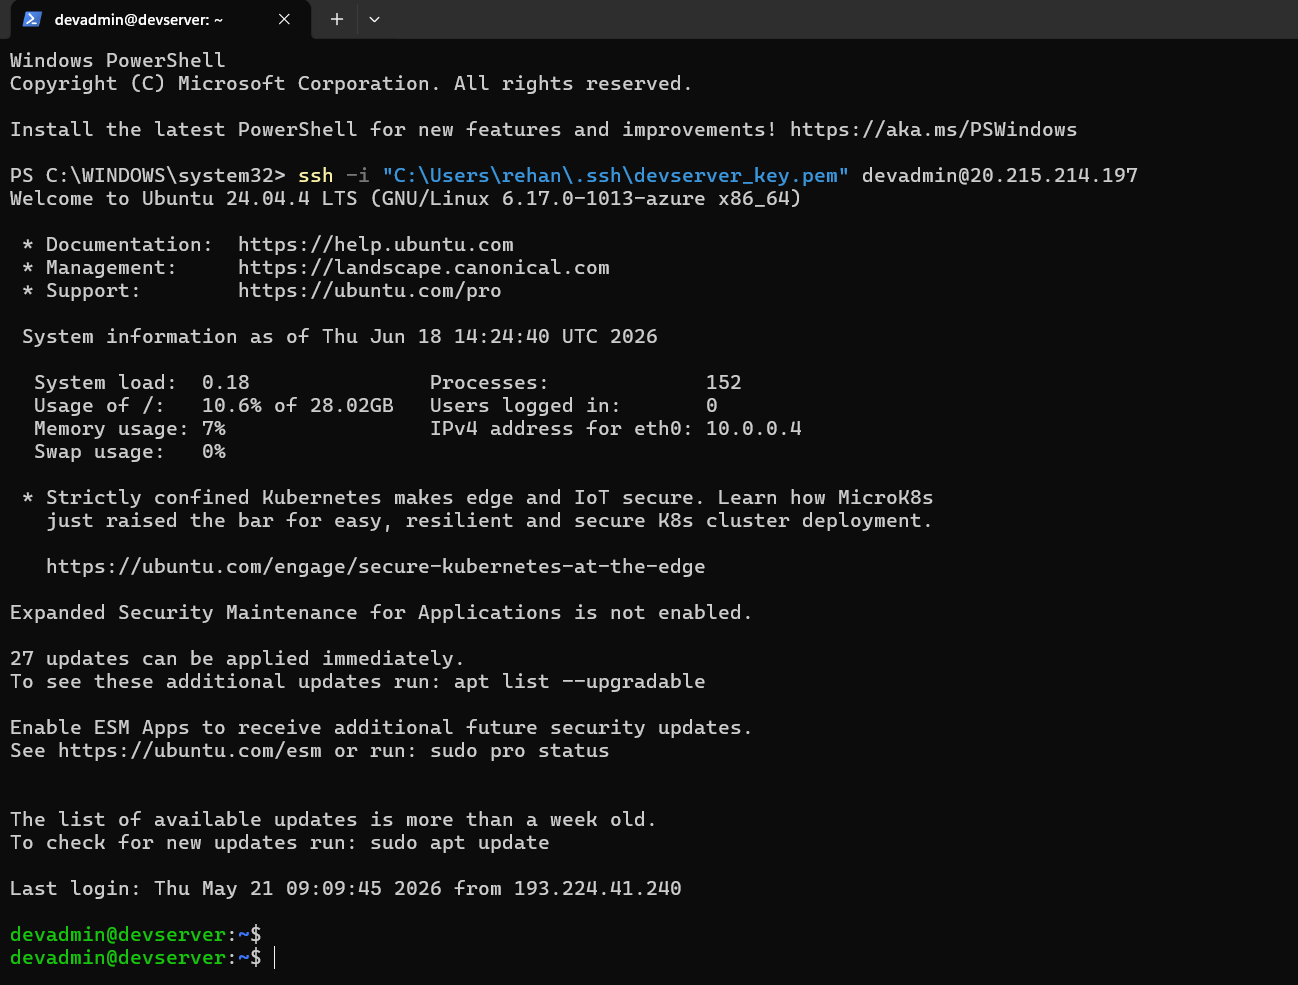
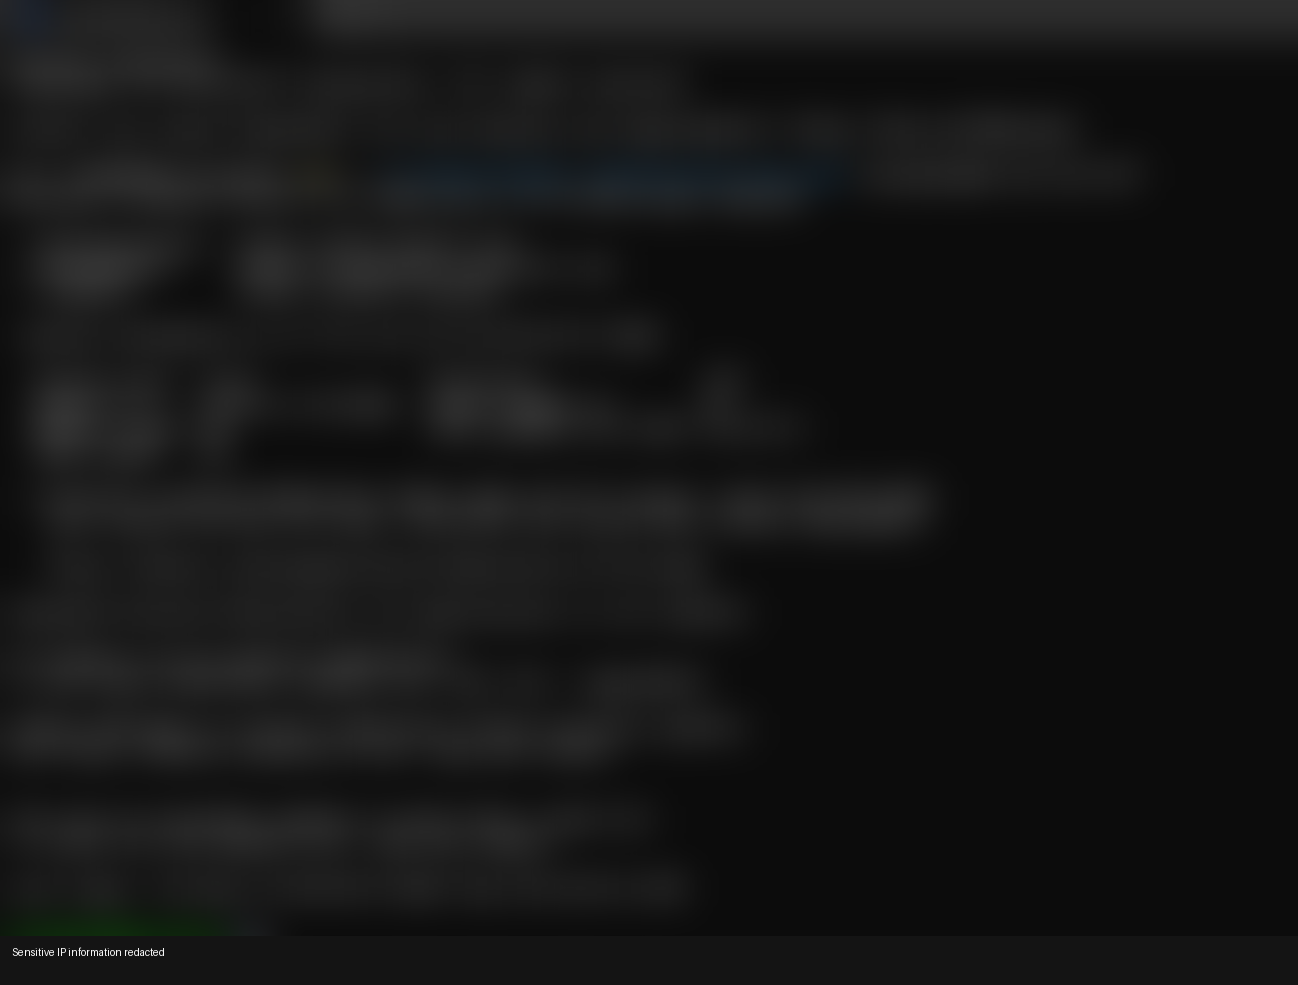
Redact IP details in SSH screenshot

diff --git a/screenshots/README.md b/screenshots/README.md
@@ -19,4 +19,4 @@
 | `git-push-windows.png` | PowerShell on Windows 11 VM showing successful git push output |
 | `git-pull-linux.png` | Terminal on Ubuntu VM showing successful git pull output |
 | `vmware-vms.png` | VMware Workstation showing both client VMs in the library |
-| `ssh-connection.png` | SSH connection to Azure server from local laptop |
+| `ssh-connection.png` | SSH connection to Azure server from local laptop (IP address redacted) |
